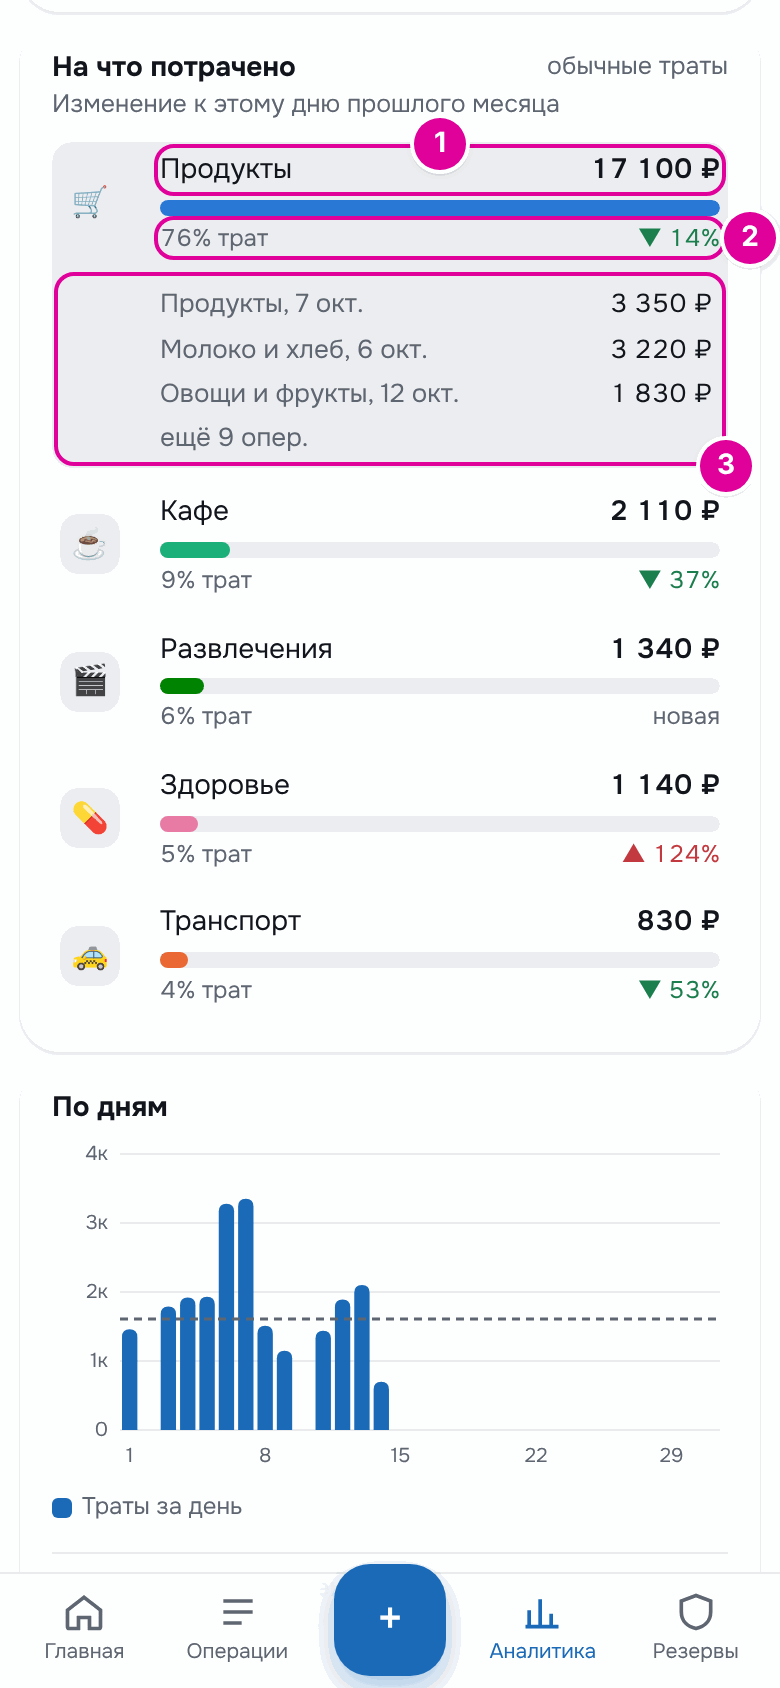
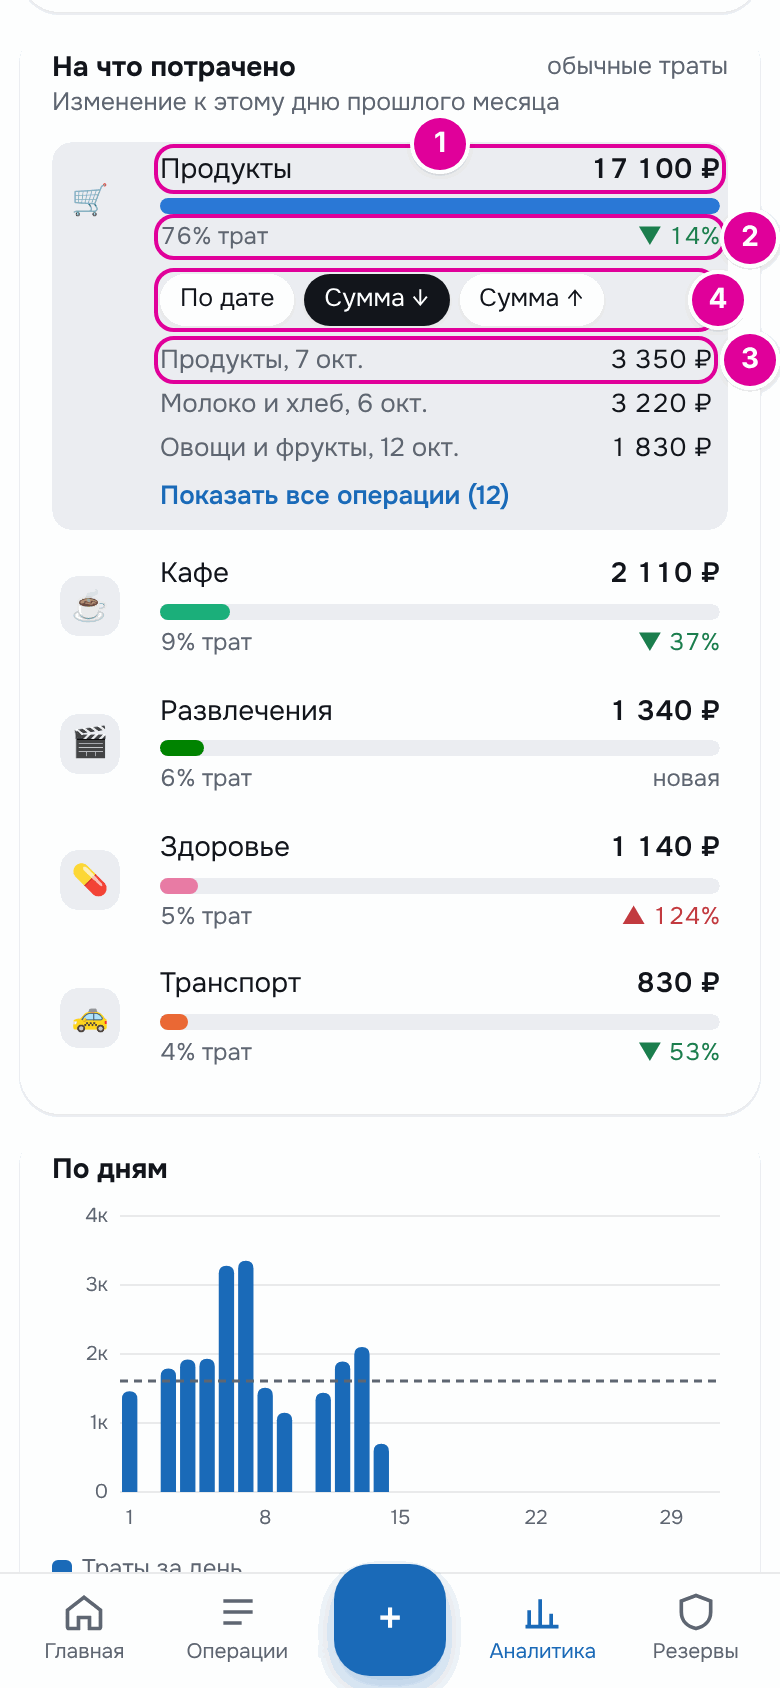
Аналитика: порядок операций в «На что потрачено» — по дате или по сумме
В раскрытой категории над списком операций кнопки «По дате» (от прошлых
к новым), «Сумма ↓» (от большой к меньшей, как было) и «Сумма ↑» (от
меньшей к большой). Порядок один для всех категорий и запоминается в
localStorage. Свёрнутый список показывает первые три операции в
выбранном порядке, «Показать все операции» — весь. Операции одного дня
по дате идут в порядке записи: API отдаёт у каждой операции id.

В index.html новые ?v= у analytics-ui.js и styles.css, чтобы Telegram
не взял старые файлы из кэша.

Инструкция: в главе 11 описан порядок операций. Сцена «На что
потрачено» в make_guide_screenshots.py искала список операций внутри
кнопки категории, а он рядом с ней, и скрипт падал; теперь снимается
вся глава. Обновлены скриншоты категорий и периода карты (на нём уже
есть строка «Взято из копилки»).

Claude-Session: https://claude.ai/code/session_014Wv2xQEtsiEyZefywxmD7z

diff --git a/app/static/analytics-ui.js b/app/static/analytics-ui.js
@@ -15,8 +15,22 @@
   let data = null;
   let loadId = 0;
   const open = new Set();
-  // Categories whose whole list of operations is shown, not just the largest.
+  // Categories whose whole list of operations is shown, not just the first few.
   const showAll = new Set();
+  // Order of the operations of an open category: one choice for every
+  // category, remembered between visits.
+  const SORT_KEY = "analytics-ops-sort";
+  const byDate = (a, b) => a.date.localeCompare(b.date) || (a.id ?? 0) - (b.id ?? 0);
+  const SORTS = [
+    {key:"date", title:"По дате", hint:"От прошлых к новым", compare:byDate},
+    {key:"amount_desc", title:"Сумма ↓", hint:"От большой к меньшей", compare:(a, b) => b.amount - a.amount || byDate(a, b)},
+    {key:"amount_asc", title:"Сумма ↑", hint:"От меньшей к большой", compare:(a, b) => a.amount - b.amount || byDate(a, b)},
+  ];
+  let sort = "amount_desc";
+  try {
+    const saved = window.localStorage?.getItem(SORT_KEY);
+    if (SORTS.some(s => s.key === saved)) sort = saved;
+  } catch (e) { /* no storage: the default order */ }
 
   async function request(path) {
     // Reuse the authenticated helper from app.js.
@@ -91,12 +105,16 @@
       // Without any spending in the previous range there is nothing to compare with.
       const hadPrevious = data.previous_totals.daily > 0;
       const change = d === null ? (hadPrevious ? "новая" : "") : d === 0 ? "без изменений" : `${d > 0 ? "▲" : "▼"} ${Math.abs(d)}%`;
-      const all = c.operations || c.top, full = showAll.has(key);
-      const shown = full ? all : c.top;
+      const all = (c.operations || c.top).slice().sort(SORTS.find(s => s.key === sort).compare), full = showAll.has(key);
+      // Collapsed, the list shows as many operations as the server's «top».
+      const shown = full ? all : all.slice(0, c.top.length);
       const more = all.length > c.top.length
         ? `<button type="button" class="analytics-more" data-more="${esc(key)}" aria-expanded="${full}">${full ? "Свернуть" : `Показать все операции (${all.length})`}</button>`
         : "";
-      const drill = expanded ? `<div class="analytics-drill">${shown.map(op => `<span><span>${esc(op.note || "Без комментария")}, ${day(op.date)}</span><span class="num">${rub(op.amount)}</span></span>`).join("")}${more}</div>` : "";
+      const sorter = all.length > 1
+        ? `<div class="analytics-sort" role="group" aria-label="Порядок операций">${SORTS.map(s => `<button type="button" class="chip" data-sort="${s.key}" aria-pressed="${s.key === sort}" title="${s.hint}">${s.title}</button>`).join("")}</div>`
+        : "";
+      const drill = expanded ? `<div class="analytics-drill">${sorter}${shown.map(op => `<span><span>${esc(op.note || "Без комментария")}, ${day(op.date)}</span><span class="num">${rub(op.amount)}</span></span>`).join("")}${more}</div>` : "";
       return `<div class="analytics-cat-item${expanded ? " open" : ""}"><button type="button" class="analytics-cat" aria-expanded="${expanded}" data-cat="${esc(key)}">
         <span class="emoji">${esc(c.emoji)}</span>
         <span><span class="top"><span>${esc(c.title)}</span><strong class="num">${rub(c.amount)}</strong></span>
@@ -230,6 +248,13 @@
   $("analyticsPrev")?.addEventListener("click", () => { if (data) { view.anchor = data.previous_anchor; open.clear(); showAll.clear(); load(); } });
   $("analyticsNext")?.addEventListener("click", () => { if (data?.next_anchor) { view.anchor = data.next_anchor; open.clear(); showAll.clear(); load(); } });
   $("analyticsCategories")?.addEventListener("click", e => {
+    const order = e.target.closest?.("[data-sort]");
+    if (order) {
+      sort = order.dataset.sort;
+      try { window.localStorage?.setItem(SORT_KEY, sort); } catch (err) { /* kept for this visit only */ }
+      renderCategories();
+      return;
+    }
     const more = e.target.closest?.("[data-more]");
     if (more) {
       const key = more.dataset.more;

diff --git a/app/static/index.html b/app/static/index.html
@@ -7,7 +7,7 @@
   <title>Мой бюджет</title>
   <script src="https://telegram.org/js/telegram-web-app.js?63"></script>
   <script src="/static/theme.js?v=20261020-daily-cap"></script>
-  <link rel="stylesheet" href="/static/styles.css?v=20261026-piggy-taken" />
+  <link rel="stylesheet" href="/static/styles.css?v=20261026-ops-sort" />
 <link href="https://fonts.googleapis.com/css2?family=Onest:wght@400;500;600;700;800&display=swap" rel="stylesheet" />
 </head>
 <body>
@@ -705,7 +705,7 @@
   <script src="/static/buffer-ui.js?v=20261020-plan-sum"></script>
   <script src="/static/design-ui.js?v=20261011-canvas-design"></script>
   <script src="/static/backup.js?v=20260925-excel"></script>
-  <script src="/static/analytics-ui.js?v=20261026-piggy-taken"></script>
+  <script src="/static/analytics-ui.js?v=20261026-ops-sort"></script>
   <script src="/static/irregular-ui.js?v=20261015-accounts-3"></script>
   <script src="/static/accounts-ui.js?v=20261015-accounts-4"></script>
   <script src="/static/home-layout.js?v=20261012-masonry"></script>

diff --git a/app/static/styles.css b/app/static/styles.css
@@ -553,6 +553,9 @@ html,body{width:100%;max-width:100%;overflow-x:hidden}
 .analytics-cats-note{margin:-4px 0 2px}
 .analytics-cat .up{color:var(--expense)} .analytics-cat .down{color:var(--income)}
 .analytics-drill{display:grid;gap:4px;padding:4px 8px 6px 54px;font-size:13px}
+.analytics-sort{display:flex;flex-wrap:wrap;gap:5px;margin:2px 0 4px}
+.analytics-sort .chip{border:0;padding:4px 10px;font-size:12.5px;box-shadow:var(--tile-shadow);cursor:pointer}
+.analytics-sort .chip[aria-pressed="true"]{background:var(--text);color:var(--bg)}
 .analytics-more{justify-self:start;border:0;background:none;padding:2px 0;color:var(--accent);font-weight:600;font-size:13px;cursor:pointer}
 .analytics-drill > span{display:flex;justify-content:space-between;gap:8px;color:var(--muted)}
 .analytics-drill > span span:last-child{color:var(--text);white-space:nowrap}

diff --git a/scripts/make_guide_screenshots.py b/scripts/make_guide_screenshots.py
@@ -1369,14 +1369,14 @@ def ch11(app: App, sh: Shooter, texts: dict) -> None:
         M(3, ".analytics-total-row", pad=3), M(4, "#analyticsKinds", pad=3),
     ], facts={"Подпись": "#analyticsTotalCaption", "Всего": "#analyticsTotal", "Сравнение": "#analyticsDelta",
               "Виды": "#analyticsKinds", "Месяц": "#analyticsLabel"})
-    first = sh.page.locator("#analyticsCategories .analytics-cat").first
-    first.click()
+    sh.page.locator("#analyticsCategories .analytics-cat").first.click()
     sh.page.wait_for_timeout(200)
-    first = sh.page.locator("#analyticsCategories .analytics-cat").first
+    # The list of operations is next to the category's button, not inside it.
+    first = sh.page.locator("#analyticsCategories .analytics-cat-item").first
     sh.scroll(".analytics-cats-card", "start")
     sh.shot("11-analytics-categories.png", [
         M(1, first.locator(".top"), pad=3), M(2, first.locator(".meta"), pad=3),
-        M(3, first.locator(".analytics-drill"), pad=3),
+        M(3, first.locator(".analytics-drill > span").first, pad=3), M(4, first.locator(".analytics-sort"), pad=3),
     ], facts={"Категории": "#analyticsCategories"})
     sh.scroll("#analyticsDaysCard", "center")
     sh.shot("11-analytics-days.png", [M(1, "#analyticsDays", pad=3), M(2, "#analyticsDaysLegend", pad=3)],

diff --git a/app/analytics.py b/app/analytics.py
@@ -123,7 +123,9 @@ def _categories(expenses: list[dict], previous: list[dict]) -> list[dict]:
     result = []
     for g in sorted(groups.values(), key=lambda g: (-g["cents"], g["order"], g["title"])):
         operations = [
-            {"date": e["tx_date"], "amount": amount(cents(e["amount"])), "note": e["note"] or ""}
+            # The id keeps operations of one day in the order they were added
+            # when the app lists them by date.
+            {"id": e["id"], "date": e["tx_date"], "amount": amount(cents(e["amount"])), "note": e["note"] or ""}
             for e in sorted(g["operations"], key=lambda e: (-cents(e["amount"]), e["tx_date"], e["id"]))
         ]
         result.append({

diff --git a/tests/test_analytics.py b/tests/test_analytics.py
@@ -119,6 +119,9 @@ def test_category_lists_every_operation_besides_the_largest_three(client):
         (900, '2026-09-12'), (300, '2026-09-04'), (300, '2026-09-05'), (120, '2026-09-03'), (80, '2026-09-07'),
     ]
     assert cafe['top'] == cafe['operations'][:3]
+    # Ids let the app keep one day's operations in the order they were added.
+    assert all(isinstance(op['id'], int) for op in cafe['operations'])
+    assert len({op['id'] for op in cafe['operations']}) == 5
 
 
 def test_unknown_mode_is_rejected(client):

diff --git a/docs/guide/11-analytics.md b/docs/guide/11-analytics.md
@@ -23,13 +23,14 @@
 
 Блок «На что потрачено» показывает только обычные траты, по категориям. Сверху — самая большая категория.
 
-![Блок «На что потрачено». У категории «Продукты» 17 100 ₽ отмечены строка с суммой, подписи «76% трат» и «▼ 14%» и раскрытый список крупных покупок](images/11-analytics-categories.png)
+![Блок «На что потрачено». У категории «Продукты» 17 100 ₽ отмечены строка с суммой, подписи «76% трат» и «▼ 14%», раскрытый список покупок и кнопки порядка «По дате», «Сумма ↓», «Сумма ↑»](images/11-analytics-categories.png)
 
 *Номера совпадают с пунктами.*
 
 1. Название категории и сумма. Полоса показывает её размер относительно самой большой.
 2. Доля среди всех обычных трат и изменение к прошлому месяцу. Слово «новая» значит, что в прошлом месяце на эту категорию не тратили.
-3. Нажмите на категорию, и раскроется список самых крупных покупок в ней. Если покупок больше, внизу написано «ещё … опер.».
+3. Нажмите на категорию, и раскроется список покупок в ней. Сначала видны три. Если покупок больше, внизу кнопка «Показать все операции» со счётчиком, а у открытого списка — «Свернуть».
+4. Порядок списка: «По дате» — от прошлых к новым, «Сумма ↓» — от большой к меньшей, «Сумма ↑» — от меньшей к большой. Сразу стоит «Сумма ↓», то есть вверху самые крупные покупки. Выбранный порядок действует во всех категориях и запоминается.
 
 ## По дням
 
